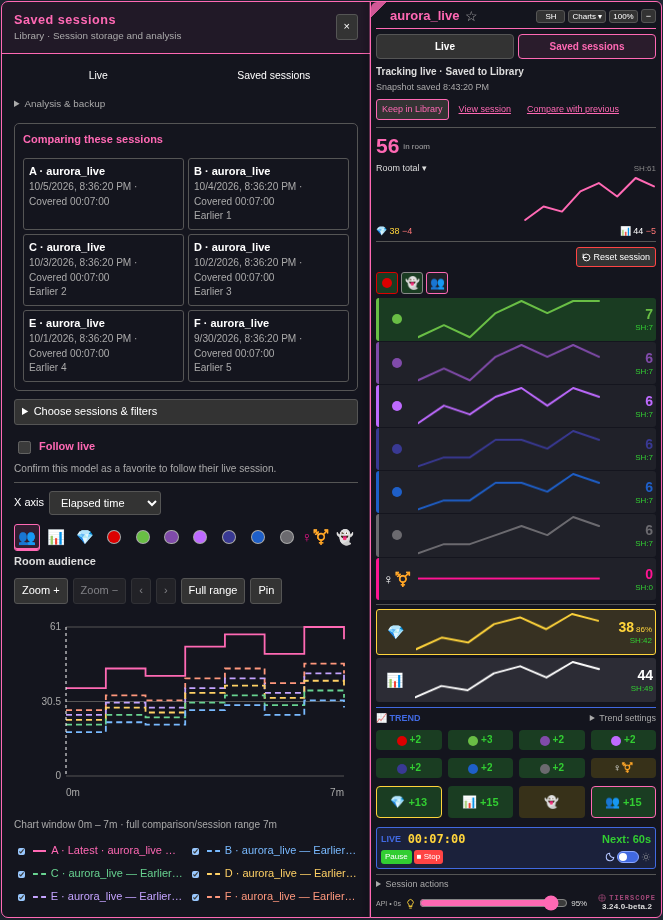
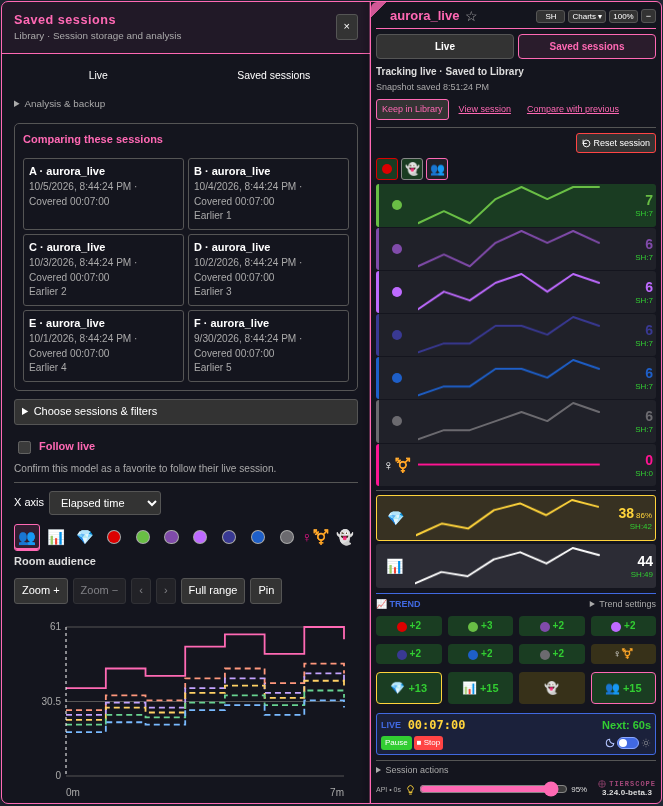
Keep audience overview chart in compact view only

Changed region(s): [[0.0, 0.0, 1.0, 1.0], [0.362, 0.062, 0.4827, 0.1241]]

diff --git a/tierscope.user.js b/tierscope.user.js
@@ -1,7 +1,7 @@
 // ==UserScript==
 // @name         TierScope - Chaturbate Viewers Visualizer
 // @namespace    http://tampermonkey.net/
-// @version      3.24.0-beta.2
+// @version      3.24.0-beta.3
 // @description  TierScope - Viewer visualizer with trend tracking, reports, and GIF export
 // @author       newivy
 // @match        https://chaturbate.com/*
@@ -10099,7 +10099,7 @@ underlying system, so should run in the browser, Node, or Plask.
     if (existing) existing.remove();
     var div = document.createElement("div");
     div.id = "cb-tier-tracker";
-    var html = '<div id="tracker-container" style="position:fixed;top:80px;right:20px;background:rgba(20,20,30,0.95);color:var(--panel-text);padding:5px;border-radius:6px;font-family:Arial,sans-serif;font-size:9px;z-index:999999;width:' + runtime.BASE_WIDTH_MINI + 'px;border:1px solid #ff69b4;transition:width 0.3s ease;cursor:default;user-select:none;"><div id="drag-handle" style="display:flex;justify-content:space-between;align-items:center;margin-bottom:3px;border-bottom:1px solid #ff69b4;padding-bottom:3px;cursor:move;"><div id="header-model" style="display:flex;flex:1;min-width:0;align-items:center;gap:3px;margin-left:14px;margin-right:4px;"><span id="header-text" style="flex:0 1 auto;min-width:0;white-space:nowrap;overflow:hidden;text-overflow:ellipsis;font-weight:bold;color:var(--panel-accent);font-size:13px;line-height:18px;">TierScope</span><button type="button" id="btn-model-favorite" aria-label="Favorite model" style="flex:0 0 18px;padding:0;border:0;background:transparent;color:var(--panel-muted);font-size:14px;line-height:18px;cursor:pointer;">☆</button></div><div style="display:flex;align-items:center;gap:3px;flex-shrink:0;"><button type="button" id="btn-high-mode" aria-pressed="false" aria-label="Session highs. Switch to all-time highs" style="display:none;min-width:29px;background:var(--panel-button);border:1px solid var(--panel-divider);color:var(--panel-text);border-radius:3px;cursor:pointer;font-size:8px;padding:1px 3px;">SH</button><button type="button" id="btn-panel-options" aria-label="Chart settings and highs" aria-expanded="false" aria-controls="panel-options" style="display:none;background:var(--panel-button);border:1px solid var(--panel-divider);color:var(--panel-text);border-radius:3px;cursor:pointer;font-size:8px;padding:1px 3px;white-space:nowrap;">Full ▾</button><button type="button" id="btn-standard-size" title="Restore standard panel size (100%)" aria-label="Restore standard panel size" style="background:var(--panel-button);border:1px solid var(--panel-divider);color:var(--panel-text);border-radius:3px;cursor:pointer;font-size:8px;padding:1px 3px;">100%</button><button id="btn-toggle" style="background:var(--panel-button);border:1px solid var(--panel-divider);color:var(--panel-text);border-radius:3px;cursor:pointer;font-size:9px;padding:1px 4px;flex-shrink:0;">+</button></div></div><div id="panel-options" role="group" aria-label="Chart and high options" style="display:none;position:absolute;right:5px;top:29px;width:190px;max-width:calc(100% - 10px);box-sizing:border-box;z-index:5;padding:8px;background:var(--panel-solid);color:var(--panel-text);border:1px solid #ff69b4;border-radius:4px;font-size:11px;box-shadow:0 3px 12px #0008;"><div style="display:flex;align-items:center;justify-content:space-between;margin-bottom:7px;"><strong>Charts &amp; highs</strong><button type="button" id="panel-options-close" aria-label="Close chart and high options" style="background:var(--panel-button);color:var(--panel-text);border:0;border-radius:3px;cursor:pointer;">×</button></div><label for="chart-window-select">Chart window</label><select id="chart-window-select" style="display:block;width:100%;margin:4px 0 6px;background:var(--panel-button);color:var(--panel-text);border:1px solid var(--panel-divider);font-size:11px;"><option value="full">Full history</option><option value="fourHours">Last 4 hours</option><option value="twoHours">Last 2 hours</option><option value="hour">Last hour</option><option value="halfHour">Last 30 minutes</option><option value="quarter">Last 15 minutes</option></select><div style="font-size:10px;color:var(--panel-muted);line-height:1.4;margin-bottom:8px;">Charts only. Downloads keep the full retained history.</div><input type="file" id="session-file-input" accept=".json,application/json" style="display:none;"><div id="session-file-info" style="display:none;margin-top:7px;font-size:10px;line-height:1.4;white-space:pre-line;overflow-wrap:anywhere;color:var(--panel-secondary);"></div><div style="border-top:1px solid var(--panel-divider);margin-top:8px;padding-top:6px;"><strong>All-time highs</strong><div id="all-time-info" style="font-size:10px;line-height:1.4;margin:4px 0;color:var(--panel-secondary);"></div><button type="button" id="btn-add-all-time" style="display:none;width:100%;margin:4px 0;padding:4px;background:#4169E1;color:#fff;border:0;border-radius:3px;cursor:pointer;">Add to all-time highs</button><button type="button" id="btn-clear-all-time" style="display:block;width:100%;margin:4px 0;padding:4px;background:var(--panel-button);color:var(--panel-text);border:1px solid var(--panel-divider);border-radius:3px;cursor:pointer;">Clear all-time highs…</button><div id="all-time-action-status" role="status" style="font-size:10px;line-height:1.4;overflow-wrap:anywhere;color:var(--panel-secondary);"></div></div></div>' + journeyPanelHtml() + '<section id="journey-audience" aria-label="Current audience"><div style="display:flex;gap:4px;align-items:center;margin-bottom:3px;"><strong id="mini-room-count" style="color:var(--panel-accent);font-size:21px;">0</strong><span style="color:var(--panel-muted);font-size:8px;">in room</span><span id="mini-room-change" style="margin-left:auto;font-size:8px;"></span></div><div style="display:flex;align-items:center;justify-content:space-between;gap:3px;"><button type="button" id="mini-metric" style="background:transparent;border:0;color:var(--panel-secondary);font:inherit;cursor:pointer;padding:2px 0;" aria-label="Cycle chart metric">Room total ▾</button><button type="button" id="mini-high" style="background:transparent;border:0;padding:0;color:var(--panel-subtle);font-size:8px;cursor:pointer;"></button></div><canvas id="mini-chart" width="140" height="48" style="display:block;width:100%;height:48px;" role="img" aria-label="Recent audience history"></canvas><div style="display:flex;justify-content:space-between;gap:4px;margin:3px 0;"><span title="With Tokens">💎 <span id="mini-withtokens" style="color:var(--panel-warning);">0</span> <span id="mini-withtokens-change"></span></span><span title="Registered">📊 <span id="mini-total">0</span> <span id="mini-total-change"></span></span></div></section><div id="minimized-view" style="display:block;position:relative;"><div style="display:flex;align-items:center;gap:3px;"><span id="mini-freshness" style="flex:1;min-width:0;font-size:8px;white-space:nowrap;overflow:hidden;text-overflow:ellipsis;">No sample</span><button type="button" id="btn-auto" style="background:var(--panel-button);border:0;color:var(--panel-text);border-radius:3px;cursor:pointer;" title="Pause or resume scans">⏸</button><button type="button" id="mini-settings-toggle" style="background:var(--panel-button);border:0;color:var(--panel-text);border-radius:3px;cursor:pointer;" aria-label="Scan interval settings" title="Scan interval settings — adjust how often TierScope scans" aria-expanded="false" aria-controls="mini-settings">◷</button><button type="button" id="btn-expand" style="background:var(--panel-button);border:0;color:var(--panel-text);border-radius:3px;font-size:9px;cursor:pointer;" title="Expand panel" aria-label="Expand panel">↗</button></div><div id="mini-settings" style="display:none;position:absolute;left:0;right:0;top:17px;background:var(--panel-settings);border:1px solid #ff69b4;border-radius:4px;padding:5px;z-index:2;" role="group" aria-label="Scan interval"><div style="display:flex;justify-content:space-between;align-items:center;font-size:9px;color:var(--panel-secondary);">Scan interval <button type="button" id="mini-settings-close" aria-label="Close scan interval settings" title="Close (Escape)" style="background:var(--panel-button);color:var(--panel-text);border:0;border-radius:3px;cursor:pointer;padding:1px 5px;font-size:13px;">×</button></div><div style="display:flex;align-items:center;justify-content:center;gap:3px;margin:3px 0;padding:2px;background:rgba(var(--panel-row-rgb),0.05);border-radius:3px;"><button id="btn-timer-down" style="background:var(--panel-button-strong);border:none;color:var(--panel-text);border-radius:2px;cursor:pointer;font-size:9px;padding:1px 4px;font-weight:bold;">−</button><span id="timer-display" style="font-size:11px;color:var(--panel-warning);font-weight:bold;min-width:28px;">60s</span><button id="btn-timer-up" style="background:var(--panel-button-strong);border:none;color:var(--panel-text);border-radius:2px;cursor:pointer;font-size:9px;padding:1px 4px;font-weight:bold;">+</button></div><div style="display:flex;gap:2px;justify-content:center;margin-top:3px;"><button class="timer-preset" data-time="30" style="background:var(--panel-button);border:1px solid var(--panel-divider);color:var(--panel-muted);border-radius:2px;cursor:pointer;font-size:7px;padding:1px 3px;">30s</button><button class="timer-preset" data-time="60" style="background:#ff69b4;border:1px solid #ff69b4;color:#fff;border-radius:2px;cursor:pointer;font-size:7px;padding:1px 3px;">60s</button><button class="timer-preset" data-time="120" style="background:var(--panel-button);border:1px solid var(--panel-divider);color:var(--panel-muted);border-radius:2px;cursor:pointer;font-size:7px;padding:1px 3px;">2m</button><button class="timer-preset" data-time="300" style="background:var(--panel-button);border:1px solid var(--panel-divider);color:var(--panel-muted);border-radius:2px;cursor:pointer;font-size:7px;padding:1px 3px;">5m</button></div><div id="auto-status" style="margin-top:3px;font-size:8px;color:var(--panel-muted);">Starting...</div></div></div><div id="session-reset-control" style="display:flex;justify-content:flex-end;border-top:1px solid var(--panel-divider);margin:5px 0;padding-top:5px;"><button id="btn-main-reset" style="height:20px;box-sizing:border-box;line-height:10px;margin:0;background:var(--panel-button);border:1px solid #ff4444;color:var(--panel-text);border-radius:3px;cursor:pointer;font-size:9px;padding:3px 5px;display:flex;align-items:center;gap:2px;" type="button" title="Reset this room’s live session after confirmation; Library sessions and all-time highs are kept"><svg width="9" height="9" viewBox="0 0 24 24" fill="none" stroke="currentColor" stroke-width="2.5" stroke-linecap="round" stroke-linejoin="round"><path d="M3 12a9 9 0 1 0 9-9 9.75 9.75 0 0 0-6.74 2.74L3 12"/><path d="M3 3v9h9"/></svg>Reset session</button></div><div id="full-view" style="display:none;"><div id="tier-chart-region" style="display:flow-root;">' + collapsedTrayHtml();
+    var html = '<div id="tracker-container" style="position:fixed;top:80px;right:20px;background:rgba(20,20,30,0.95);color:var(--panel-text);padding:5px;border-radius:6px;font-family:Arial,sans-serif;font-size:9px;z-index:999999;width:' + runtime.BASE_WIDTH_MINI + 'px;border:1px solid #ff69b4;transition:width 0.3s ease;cursor:default;user-select:none;"><div id="drag-handle" style="display:flex;justify-content:space-between;align-items:center;margin-bottom:3px;border-bottom:1px solid #ff69b4;padding-bottom:3px;cursor:move;"><div id="header-model" style="display:flex;flex:1;min-width:0;align-items:center;gap:3px;margin-left:14px;margin-right:4px;"><span id="header-text" style="flex:0 1 auto;min-width:0;white-space:nowrap;overflow:hidden;text-overflow:ellipsis;font-weight:bold;color:var(--panel-accent);font-size:13px;line-height:18px;">TierScope</span><button type="button" id="btn-model-favorite" aria-label="Favorite model" style="flex:0 0 18px;padding:0;border:0;background:transparent;color:var(--panel-muted);font-size:14px;line-height:18px;cursor:pointer;">☆</button></div><div style="display:flex;align-items:center;gap:3px;flex-shrink:0;"><button type="button" id="btn-high-mode" aria-pressed="false" aria-label="Session highs. Switch to all-time highs" style="display:none;min-width:29px;background:var(--panel-button);border:1px solid var(--panel-divider);color:var(--panel-text);border-radius:3px;cursor:pointer;font-size:8px;padding:1px 3px;">SH</button><button type="button" id="btn-panel-options" aria-label="Chart settings and highs" aria-expanded="false" aria-controls="panel-options" style="display:none;background:var(--panel-button);border:1px solid var(--panel-divider);color:var(--panel-text);border-radius:3px;cursor:pointer;font-size:8px;padding:1px 3px;white-space:nowrap;">Full ▾</button><button type="button" id="btn-standard-size" title="Restore standard panel size (100%)" aria-label="Restore standard panel size" style="background:var(--panel-button);border:1px solid var(--panel-divider);color:var(--panel-text);border-radius:3px;cursor:pointer;font-size:8px;padding:1px 3px;">100%</button><button id="btn-toggle" style="background:var(--panel-button);border:1px solid var(--panel-divider);color:var(--panel-text);border-radius:3px;cursor:pointer;font-size:9px;padding:1px 4px;flex-shrink:0;">+</button></div></div><div id="panel-options" role="group" aria-label="Chart and high options" style="display:none;position:absolute;right:5px;top:29px;width:190px;max-width:calc(100% - 10px);box-sizing:border-box;z-index:5;padding:8px;background:var(--panel-solid);color:var(--panel-text);border:1px solid #ff69b4;border-radius:4px;font-size:11px;box-shadow:0 3px 12px #0008;"><div style="display:flex;align-items:center;justify-content:space-between;margin-bottom:7px;"><strong>Charts &amp; highs</strong><button type="button" id="panel-options-close" aria-label="Close chart and high options" style="background:var(--panel-button);color:var(--panel-text);border:0;border-radius:3px;cursor:pointer;">×</button></div><label for="chart-window-select">Chart window</label><select id="chart-window-select" style="display:block;width:100%;margin:4px 0 6px;background:var(--panel-button);color:var(--panel-text);border:1px solid var(--panel-divider);font-size:11px;"><option value="full">Full history</option><option value="fourHours">Last 4 hours</option><option value="twoHours">Last 2 hours</option><option value="hour">Last hour</option><option value="halfHour">Last 30 minutes</option><option value="quarter">Last 15 minutes</option></select><div style="font-size:10px;color:var(--panel-muted);line-height:1.4;margin-bottom:8px;">Charts only. Downloads keep the full retained history.</div><input type="file" id="session-file-input" accept=".json,application/json" style="display:none;"><div id="session-file-info" style="display:none;margin-top:7px;font-size:10px;line-height:1.4;white-space:pre-line;overflow-wrap:anywhere;color:var(--panel-secondary);"></div><div style="border-top:1px solid var(--panel-divider);margin-top:8px;padding-top:6px;"><strong>All-time highs</strong><div id="all-time-info" style="font-size:10px;line-height:1.4;margin:4px 0;color:var(--panel-secondary);"></div><button type="button" id="btn-add-all-time" style="display:none;width:100%;margin:4px 0;padding:4px;background:#4169E1;color:#fff;border:0;border-radius:3px;cursor:pointer;">Add to all-time highs</button><button type="button" id="btn-clear-all-time" style="display:block;width:100%;margin:4px 0;padding:4px;background:var(--panel-button);color:var(--panel-text);border:1px solid var(--panel-divider);border-radius:3px;cursor:pointer;">Clear all-time highs…</button><div id="all-time-action-status" role="status" style="font-size:10px;line-height:1.4;overflow-wrap:anywhere;color:var(--panel-secondary);"></div></div></div>' + journeyPanelHtml() + '<div id="minimized-view" style="display:block;position:relative;"><section id="journey-audience" aria-label="Current audience"><div style="display:flex;gap:4px;align-items:center;margin-bottom:3px;"><strong id="mini-room-count" style="color:var(--panel-accent);font-size:21px;">0</strong><span style="color:var(--panel-muted);font-size:8px;">in room</span><span id="mini-room-change" style="margin-left:auto;font-size:8px;"></span></div><div style="display:flex;align-items:center;justify-content:space-between;gap:3px;"><button type="button" id="mini-metric" style="background:transparent;border:0;color:var(--panel-secondary);font:inherit;cursor:pointer;padding:2px 0;" aria-label="Cycle chart metric">Room total ▾</button><button type="button" id="mini-high" style="background:transparent;border:0;padding:0;color:var(--panel-subtle);font-size:8px;cursor:pointer;"></button></div><canvas id="mini-chart" width="140" height="48" style="display:block;width:100%;height:48px;" role="img" aria-label="Recent audience history"></canvas><div style="display:flex;justify-content:space-between;gap:4px;margin:3px 0;"><span title="With Tokens">💎 <span id="mini-withtokens" style="color:var(--panel-warning);">0</span> <span id="mini-withtokens-change"></span></span><span title="Registered">📊 <span id="mini-total">0</span> <span id="mini-total-change"></span></span></div></section><div style="position:relative;"><div style="display:flex;align-items:center;gap:3px;"><span id="mini-freshness" style="flex:1;min-width:0;font-size:8px;white-space:nowrap;overflow:hidden;text-overflow:ellipsis;">No sample</span><button type="button" id="btn-auto" style="background:var(--panel-button);border:0;color:var(--panel-text);border-radius:3px;cursor:pointer;" title="Pause or resume scans">⏸</button><button type="button" id="mini-settings-toggle" style="background:var(--panel-button);border:0;color:var(--panel-text);border-radius:3px;cursor:pointer;" aria-label="Scan interval settings" title="Scan interval settings — adjust how often TierScope scans" aria-expanded="false" aria-controls="mini-settings">◷</button><button type="button" id="btn-expand" style="background:var(--panel-button);border:0;color:var(--panel-text);border-radius:3px;font-size:9px;cursor:pointer;" title="Expand panel" aria-label="Expand panel">↗</button></div><div id="mini-settings" style="display:none;position:absolute;left:0;right:0;top:17px;background:var(--panel-settings);border:1px solid #ff69b4;border-radius:4px;padding:5px;z-index:2;" role="group" aria-label="Scan interval"><div style="display:flex;justify-content:space-between;align-items:center;font-size:9px;color:var(--panel-secondary);">Scan interval <button type="button" id="mini-settings-close" aria-label="Close scan interval settings" title="Close (Escape)" style="background:var(--panel-button);color:var(--panel-text);border:0;border-radius:3px;cursor:pointer;padding:1px 5px;font-size:13px;">×</button></div><div style="display:flex;align-items:center;justify-content:center;gap:3px;margin:3px 0;padding:2px;background:rgba(var(--panel-row-rgb),0.05);border-radius:3px;"><button id="btn-timer-down" style="background:var(--panel-button-strong);border:none;color:var(--panel-text);border-radius:2px;cursor:pointer;font-size:9px;padding:1px 4px;font-weight:bold;">−</button><span id="timer-display" style="font-size:11px;color:var(--panel-warning);font-weight:bold;min-width:28px;">60s</span><button id="btn-timer-up" style="background:var(--panel-button-strong);border:none;color:var(--panel-text);border-radius:2px;cursor:pointer;font-size:9px;padding:1px 4px;font-weight:bold;">+</button></div><div style="display:flex;gap:2px;justify-content:center;margin-top:3px;"><button class="timer-preset" data-time="30" style="background:var(--panel-button);border:1px solid var(--panel-divider);color:var(--panel-muted);border-radius:2px;cursor:pointer;font-size:7px;padding:1px 3px;">30s</button><button class="timer-preset" data-time="60" style="background:#ff69b4;border:1px solid #ff69b4;color:#fff;border-radius:2px;cursor:pointer;font-size:7px;padding:1px 3px;">60s</button><button class="timer-preset" data-time="120" style="background:var(--panel-button);border:1px solid var(--panel-divider);color:var(--panel-muted);border-radius:2px;cursor:pointer;font-size:7px;padding:1px 3px;">2m</button><button class="timer-preset" data-time="300" style="background:var(--panel-button);border:1px solid var(--panel-divider);color:var(--panel-muted);border-radius:2px;cursor:pointer;font-size:7px;padding:1px 3px;">5m</button></div><div id="auto-status" style="margin-top:3px;font-size:8px;color:var(--panel-muted);">Starting...</div></div></div></div><div id="session-reset-control" style="display:flex;justify-content:flex-end;border-top:1px solid var(--panel-divider);margin:5px 0;padding-top:5px;"><button id="btn-main-reset" style="height:20px;box-sizing:border-box;line-height:10px;margin:0;background:var(--panel-button);border:1px solid #ff4444;color:var(--panel-text);border-radius:3px;cursor:pointer;font-size:9px;padding:3px 5px;display:flex;align-items:center;gap:2px;" type="button" title="Reset this room’s live session after confirmation; Library sessions and all-time highs are kept"><svg width="9" height="9" viewBox="0 0 24 24" fill="none" stroke="currentColor" stroke-width="2.5" stroke-linecap="round" stroke-linejoin="round"><path d="M3 12a9 9 0 1 0 9-9 9.75 9.75 0 0 0-6.74 2.74L3 12"/><path d="M3 3v9h9"/></svg>Reset session</button></div><div id="full-view" style="display:none;"><div id="tier-chart-region" style="display:flow-root;">' + collapsedTrayHtml();
     Object.keys(runtime.TIERS).forEach(function(key) {
       var t = runtime.TIERS[key];
       html += '<div id="tier-row-' + key + '" data-tier="' + key + '" style="display:flex;align-items:center;padding:1px 3px;margin:1px 0;background:rgba(var(--panel-row-rgb),calc(0.05 * var(--tier-background-scale, 1)));border-radius:3px;border-left:3px solid ' + t.color + ';"><div style="width:30px;flex-shrink:0;text-align:center;">' + collapseMarkerHtml(key) + '</div><canvas id="spark-' + key + '" width="105" height="28" style="flex:1;margin:0 4px;"></canvas><div style="text-align:right;width:48px;flex-shrink:0;"><span id="count-' + key + '" style="font-weight:bold;color:' + t.color + ';font-size:14px;">0</span><div id="high-' + key + '" style="font-size:8px;color:var(--panel-positive);margin-top:1px;white-space:nowrap;">SH:0</div></div></div>';
@@ -10440,7 +10440,7 @@ underlying system, so should run in the browser, Node, or Plask.
 
   // src/bootstrap.js
   function initializeRuntime() {
-    runtime.TIERSCOPE_VERSION = "3.24.0-beta.2";
+    runtime.TIERSCOPE_VERSION = "3.24.0-beta.3";
     runtime.API_TIMEOUT_MS = 1e4;
     runtime.DEFAULT_API_INTERVAL_SECONDS = 60;
     runtime.DOM_FALLBACK_INTERVAL_SECONDS = 60;

diff --git a/src/panel.js b/src/panel.js
@@ -80,6 +80,7 @@ export function createPanel() {
                 '</div>' +
             '</div>' +
             journeyPanelHtml() +
+            '<div id="minimized-view" style="display:block;position:relative;">' +
             '<section id="journey-audience" aria-label="Current audience">' +
                 '<div style="display:flex;gap:4px;align-items:center;margin-bottom:3px;"><strong id="mini-room-count" style="color:var(--panel-accent);font-size:21px;">0</strong><span style="color:var(--panel-muted);font-size:8px;">in room</span><span id="mini-room-change" style="margin-left:auto;font-size:8px;"></span></div>' +
                 '<div style="display:flex;align-items:center;justify-content:space-between;gap:3px;">' +
@@ -92,7 +93,7 @@ export function createPanel() {
                     '<span title="Registered">📊 <span id="mini-total">0</span> <span id="mini-total-change"></span></span>' +
                 '</div>' +
             '</section>' +
-            '<div id="minimized-view" style="display:block;position:relative;">' +
+            '<div style="position:relative;">' +
                 '<div style="display:flex;align-items:center;gap:3px;">' +
                     '<span id="mini-freshness" style="flex:1;min-width:0;font-size:8px;white-space:nowrap;overflow:hidden;text-overflow:ellipsis;">No sample</span>' +
                     '<button type="button" id="btn-auto" style="background:var(--panel-button);border:0;color:var(--panel-text);border-radius:3px;cursor:pointer;" title="Pause or resume scans">⏸</button>' +
@@ -116,6 +117,8 @@ export function createPanel() {
 
                     '<div id="auto-status" style="margin-top:3px;font-size:8px;color:var(--panel-muted);">Starting...</div>' +
                 '</div>' +
+            '</div>' +
+
             '</div>' +
 
             '<div id="session-reset-control" style="display:flex;justify-content:flex-end;border-top:1px solid var(--panel-divider);margin:5px 0;padding-top:5px;">' +

diff --git a/DEVELOPMENT_NOTES.md b/DEVELOPMENT_NOTES.md
@@ -1,6 +1,6 @@
 # TierScope — Usage and development notes
 
-Detailed reference for **3.24.0-beta.2**. Start with [Live and Saved sessions](docs/user-journey-beta.md). The analysis, exports, favorite consent, storage limits, retention and playback rules remain compatible with 3.23.0. Development uses modular sources and a single installable script; see [BUILDING.md](BUILDING.md). For the stable release, see the [README](readme.md).
+Detailed reference for **3.24.0-beta.3**. Start with [Live and Saved sessions](docs/user-journey-beta.md). The analysis, exports, favorite consent, storage limits, retention and playback rules remain compatible with 3.23.0. Development uses modular sources and a single installable script; see [BUILDING.md](BUILDING.md). For the stable release, see the [README](readme.md).
 
 ## Contents
 
@@ -57,7 +57,7 @@ Keep only one enabled copy of TierScope. After an update, refresh existing room 
 | **Saved sessions** | Browse recent sessions immediately, narrow by model/date, or open a session’s chart and summary. |
 | **Reset session** on its separate, always-visible row | Confirm clearing this room’s history, counters, and elapsed time, then request one fresh scan. Keep the automatic-scan pause state and layout preferences. |
 
-The header identifies the room, followed by **Live / Saved sessions**, a combined tracking/saving status, and the audience overview and its chart. Before the first sample, a short message explains what TierScope is waiting for. Keeping succeeds only after the Library write is verified. A manual save is a snapshot; later scans show that it needs updating. Confirmed favorites show automatic saving and the last successful save time. Failed saves leave live data available and show a pending message.
+The header identifies the room, followed by **Live / Saved sessions**, a combined tracking/saving status, and, in compact view, the audience overview and its chart. Before the first sample, a short message explains what TierScope is waiting for. Keeping succeeds only after the Library write is verified. A manual save is a snapshot; later scans show that it needs updating. Confirmed favorites show automatic saving and the last successful save time. Failed saves leave live data available and show a pending message.
 
 The lower Live control row keeps elapsed time and countdown/status stable, with labeled Pause/Resume, Stop and the theme switch below. **Reset session** stays visible in compact and expanded views on a separate row. **Session actions** contains current-session Replay. **Trend settings** reveals comparison presets. Both disclosures remember their expanded state. The panel scrolls vertically when its scaled footprint would otherwise exceed the viewport.
 

diff --git a/docs/user-journey-beta.md b/docs/user-journey-beta.md
@@ -1,10 +1,10 @@
-# TierScope journey redesign — 3.24.0-beta.2
+# TierScope journey redesign — 3.24.0-beta.3
 
 [Install the beta](https://raw.githubusercontent.com/newivy2/TierScope/beta/user-journey/tierscope.user.js). Keep one enabled copy. Main remains **3.23.0**; this branch is for review.
 
 ## Start in Live
 
-The room name, tracking status, saving status, audience and recent chart appear together in compact and expanded views. Recording still starts automatically. The first sample enables **Keep in Library**. **View session** opens the exact kept recording; another Keep updates the same compatible session.
+The room name, tracking status and saving status appear in both panel sizes. The audience overview and recent chart stay in compact view; expanded view shows the existing tier charts. Recording still starts automatically. The first sample enables **Keep in Library**. **View session** opens the exact kept recording; another Keep updates the same compatible session.
 
 Manual keeping captures a snapshot. New scans indicate that the saved snapshot needs updating. A confirmed favorite shows **Automatically saved**, the last successful checkpoint and any pending save. Automatic keeping retains its existing one-minute cadence and pause/Stop/navigation checkpoints. Favorite consent and storage limits are unchanged.
 

diff --git a/readme.md b/readme.md
@@ -1,6 +1,6 @@
 # TierScope
 
-**Review beta: 3.24.0-beta.2** — [Install the journey redesign](https://raw.githubusercontent.com/newivy2/TierScope/beta/user-journey/tierscope.user.js) · [Review guide and screenshots](docs/user-journey-beta.md). Main remains 3.23.0. Keep one enabled copy of TierScope.
+**Review beta: 3.24.0-beta.3** — [Install the journey redesign](https://raw.githubusercontent.com/newivy2/TierScope/beta/user-journey/tierscope.user.js) · [Review guide and screenshots](docs/user-journey-beta.md). Main remains 3.23.0. Keep one enabled copy of TierScope.
 
 TierScope is a free, open-source userscript that charts how a Chaturbate room’s audience changes over time.
 
